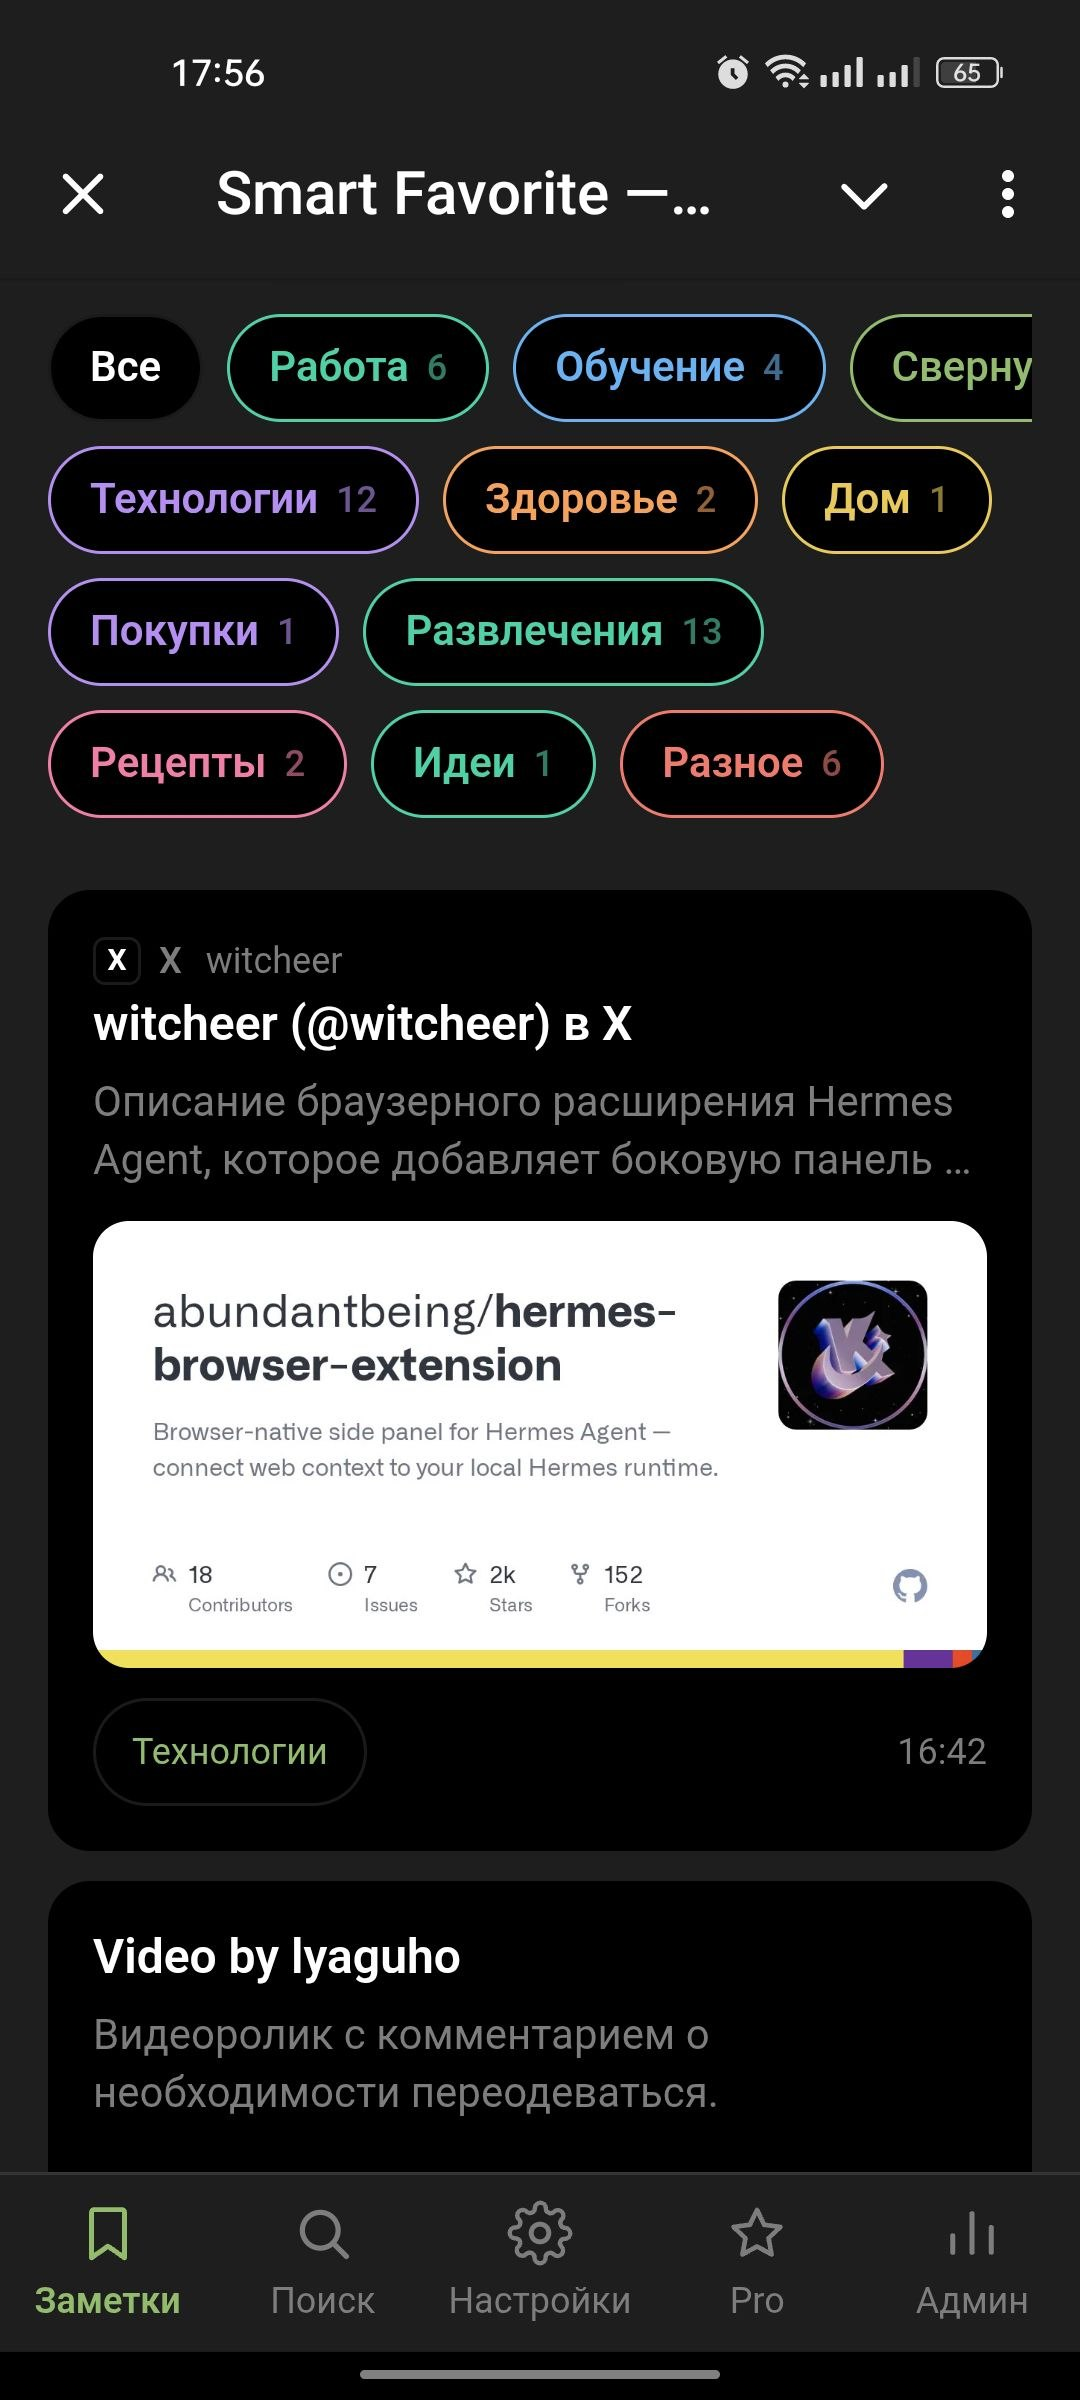
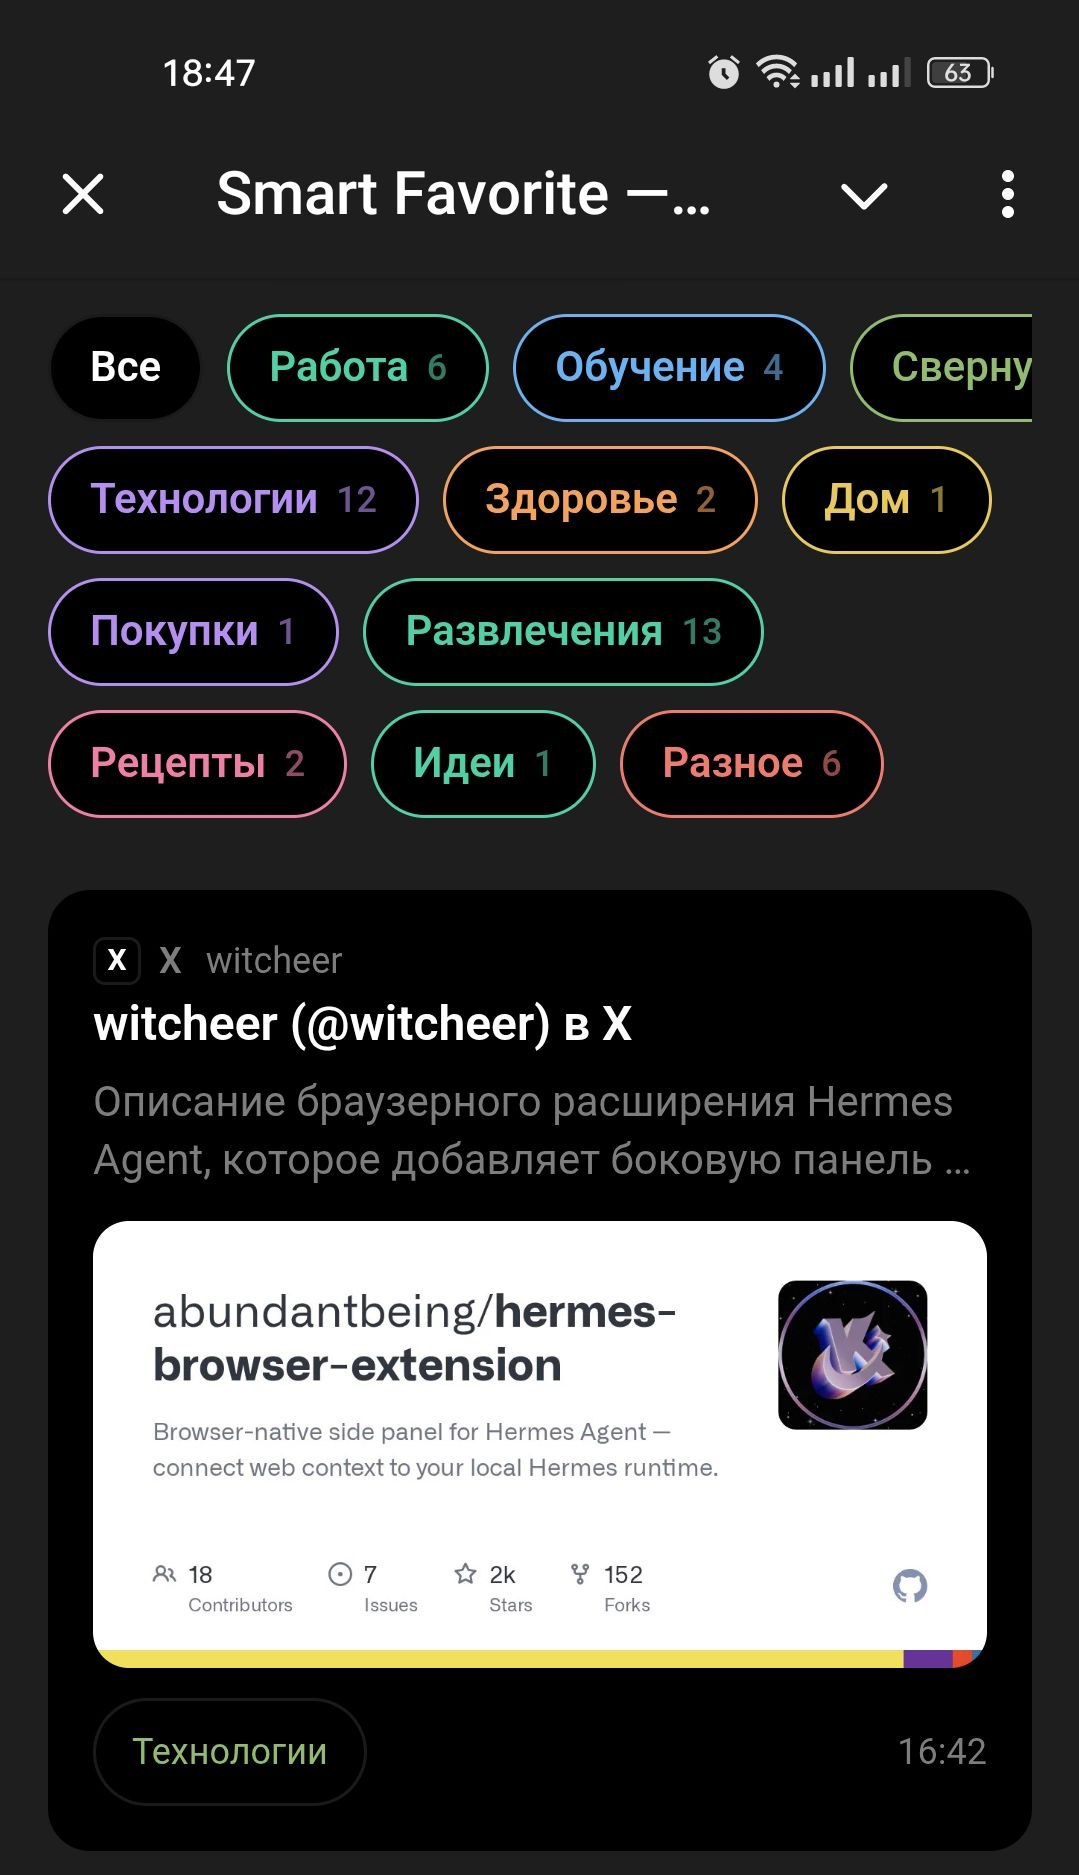
hero: свежий скрин карточки X с ником автора @witcheer (фича author уже в проде)

diff --git a/index.html b/index.html
@@ -123,7 +123,7 @@
       </ul>
     </div>
     <div class="phone">
-      <img src="shots/x-card.jpg" alt="Карточка заметки в Smart Favorite: пост с X с обложкой и описанием репозитория" width="1080" height="2400" loading="eager">
+      <img src="shots/x-card.jpg" alt="Карточка заметки в Smart Favorite: пост @witcheer с X о репозитории hermes-browser-extension" width="1079" height="1875" loading="eager">
     </div>
   </div>
 </section>
